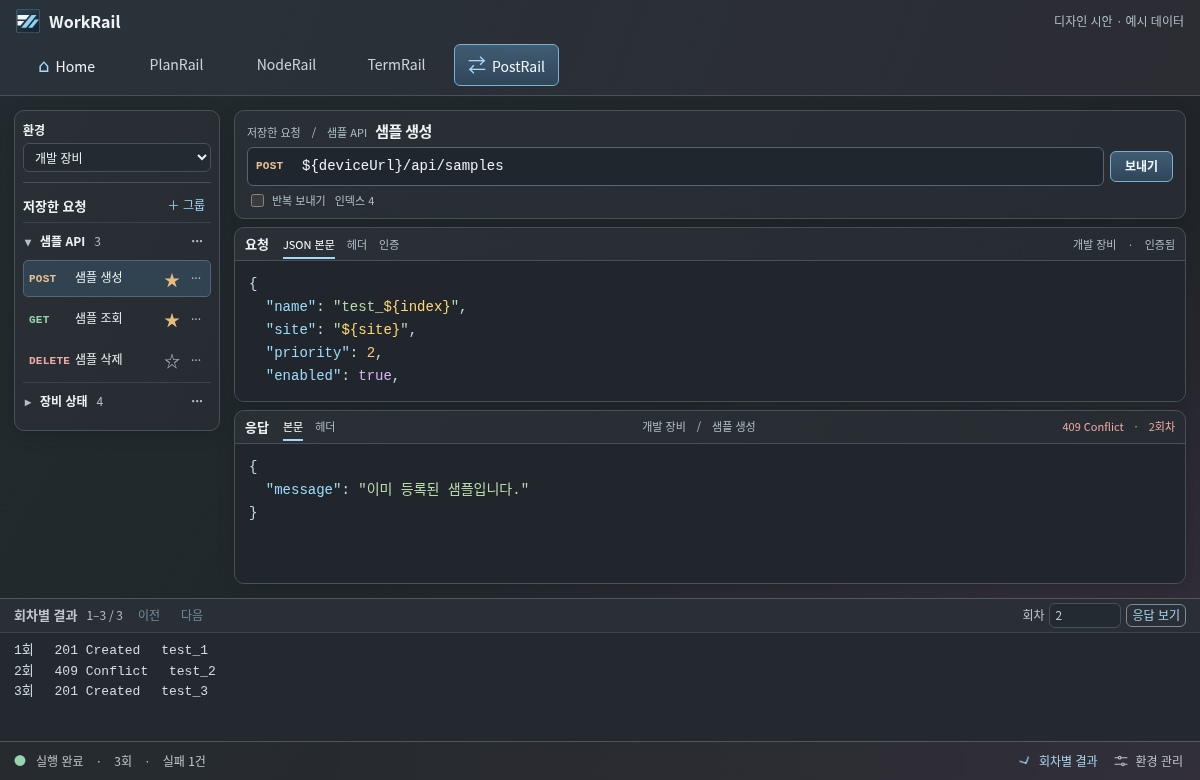
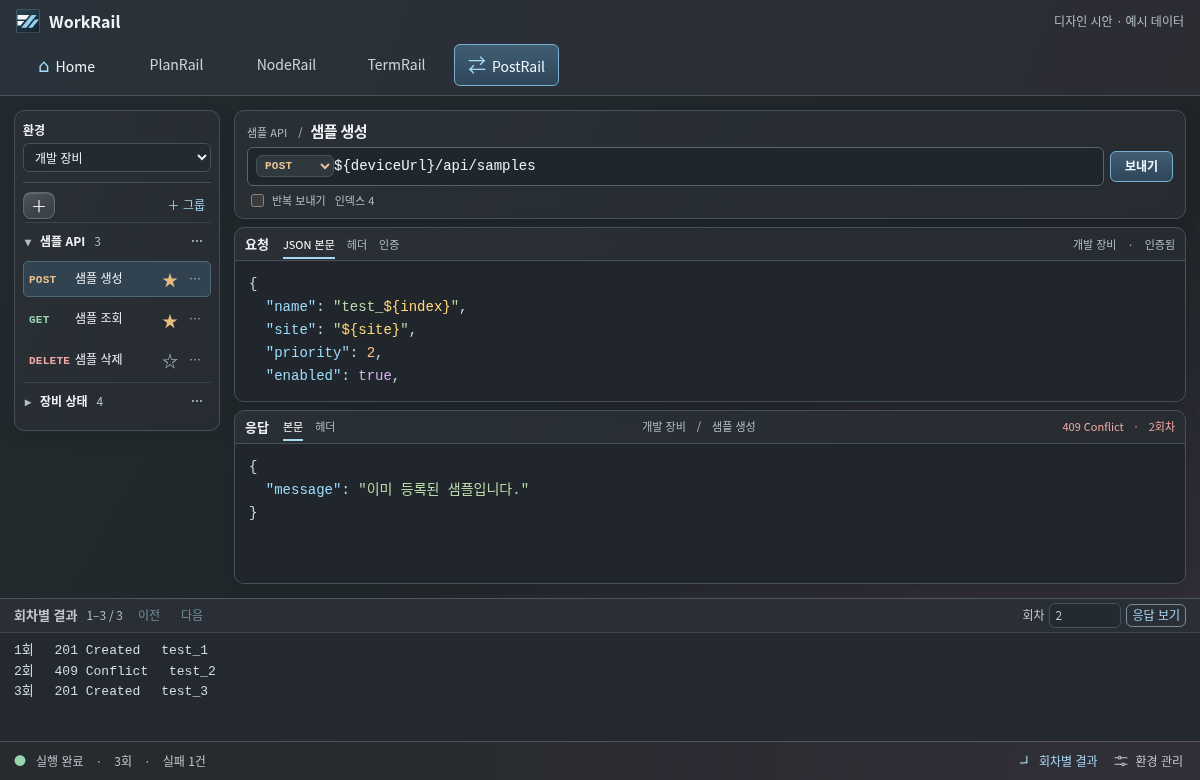
Design PostRail request creation, method switching and item menus

diff --git a/docs/design/mockups/postrail-workspace.html b/docs/design/mockups/postrail-workspace.html
@@ -82,13 +82,33 @@ body:has(#post:not([hidden])){height:100dvh}
 .code-pane .json-input textarea{position:absolute;inset:0;width:100%;height:100%;min-height:0;overflow:auto;color:transparent;caret-color:#f1f2f3;background:transparent}
 .json-input textarea::selection{background:#6489af80}
 @media(forced-colors:active){.json-input pre{display:none}.code-pane .json-input textarea{color:CanvasText;caret-color:CanvasText}}
+/* The same glass, field dimensions and action spacing as the WorkRail standard dialog. */
+#dialog{width:min(460px,calc(100vw - 28px));max-height:calc(100dvh - 32px);overflow:auto;padding:20px 22px;border:1px solid #b4bfc449;border-radius:14px;background:rgba(43,46,49,.5);backdrop-filter:blur(28px);box-shadow:0 14px 42px #0007}
+#dialog::backdrop{background:#14191f66}
+#dialog .title{background:none;padding:0 0 10px;border-bottom:1px solid #b4bfc430}
+#dialog h2{font-size:19px}
+#dialog .dialogbody{max-height:none;padding:14px 0}
+#dialog .formrow{font-size:13px;font-weight:600;margin:0 0 14px}
+#dialog .formrow:last-child{margin-bottom:0}
+#dialog input,#dialog select{height:36px;padding:6px 10px;border-radius:8px;background:#6e73784d;border:1px solid #b4bfc449;color:inherit}
+#dialog option,#method option{background:#292f35;color:#eef2f5}
+#dialog button,#newRequest{min-height:32px;padding:5px 11px;font-size:13px;border-radius:8px;color:inherit;border:1px solid #b4bfc449;background:linear-gradient(155deg,#ffffff18,transparent 65%),#6e73784d;box-shadow:0 1px 2px #0003,inset 0 1px 0 #ffffff20}
+#dialog .dialogfoot{gap:8px;padding:12px 0 0;border-top:1px solid #b4bfc430}
+#dialog .primary{background:linear-gradient(155deg,#5796cd55,#24507840 65%),#477fae4d;border-color:#8bc1eb}
+#dialog .danger{color:#ffc1ba}
+#dialog .leading{margin-right:auto}
+#newRequest{min-height:24px;padding:0 7px;font-size:16px}
+#method{flex:none;width:78px;padding:3px 4px;background:#30383f;border-color:var(--line)}
+#contextMenu{position:fixed;z-index:20;min-width:125px;padding:3px;max-height:50vh;overflow:auto;border:1px solid var(--line);border-radius:5px;background:#2b2e31;box-shadow:0 8px 24px #0005}
+#contextMenu button{display:block;width:100%;padding:4px 7px;font-size:12px;text-align:left;background:none;border:0}
+#contextMenu button:hover,#contextMenu button:focus{background:#b4c8dc26}
 </style>
[1 lines of base64/hex data omitted]
 <main id="post">
 <aside><label for="env"><strong>환경</strong></label><select class="env" id="env"><option>개발 장비</option><option>QA 장비</option></select>
-<div class="row apart asidehead"><h2>저장한 요청</h2><button id="newGroup" class="ghost">＋ 그룹</button></div><div id="tree"></div></aside>
+<div class="row apart asidehead"><button id="newRequest" aria-label="요청 추가" title="요청 추가">＋</button><button id="newGroup" class="ghost">＋ 그룹</button></div><div id="tree"></div></aside>
 <section class="workspace">
-<div class="panel compose"><div class="request-heading"><span class="pathline" id="crumb"></span><h1 id="reqName"></h1></div><div class="endpoint"><div class="url"><b id="method" class="verb"></b><input id="url" aria-label="요청 URL"></div><button class="primary send" id="send">보내기</button></div>
+<div class="panel compose"><div class="request-heading"><span class="pathline" id="crumb"></span><h1 id="reqName"></h1></div><div class="endpoint"><div class="url"><select id="method" class="verb" aria-label="HTTP 메서드"><option>GET</option><option>POST</option><option>DELETE</option></select><input id="url" aria-label="요청 URL"></div><button class="primary send" id="send">보내기</button></div>
 <div class="tools"><label id="repeatControl"><input type="checkbox" id="repeat">반복 보내기</label><label id="countControl" hidden>횟수 <input type="text" inputmode="numeric" id="count" value="10"></label><span id="range"></span><button id="saveEdits" class="ghost auto" hidden>변경 저장</button></div></div>
 <div class="panel code-pane"><div class="pane-bar"><h2>요청</h2><div id="reqTabs" class="tabs"><button data-tab="0" class="active">JSON 본문</button><button data-tab="1">헤더</button><button data-tab="2">인증</button></div><small id="auth" class="auto"></small></div><div class="editor" id="reqContent"></div></div>
 <div class="panel code-pane"><div class="pane-bar"><h2>응답</h2><div class="tabs"><button id="bodyTab" class="active">본문</button><button id="hdrTab">헤더</button></div><small class="auto" id="responseOwner"></small><span id="status" class="good"></span></div><div class="editor"><pre id="response"></pre></div></div>
@@ -103,7 +123,7 @@ body:has(#post:not([hidden])){height:100dvh}
 <section class="widget panel pad"><h2 class="cardhead">PlanRail 상태</h2><div class="listrow">공유 상태<span class="good">공유 제공 중</span></div><div class="listrow">연결 참여자<b>2명</b></div></section>
 <section class="widget panel pad"><h2 class="cardhead">Node 작업</h2><div class="listrow">24.22.3<span class="pill">사용 중</span></div><div class="listrow">22.16.0<small>설치됨</small></div></section>
 <section class="widget panel pad"><div class="row apart cardhead"><h2>PostRail 즐겨찾기</h2><span class="mark" aria-hidden="true">⇄</span></div><div class="listrow"><span id="homeEnv"></span><small id="homeAuth"></small></div><div id="favorites"></div><p class="home-result" role="status"><span id="homeLast"></span> <span id="homeCode"></span></p><div class="workrail-widget-meta"><span id="favCount"></span><button type="button" class="workrail-link" id="openPost">PostRail 열기</button></div></section></div></main>
-<dialog id="dialog"><div class="title"><h2 id="dialogTitle"></h2><button class="more auto" id="closeDialog" aria-label="닫기">×</button></div><div id="dialogBody" class="dialogbody"></div><div id="actions" class="dialogfoot"></div></dialog>
+<div id="contextMenu" role="menu" aria-label="작업 메뉴" hidden></div><dialog id="dialog" aria-labelledby="dialogTitle"><div class="title"><h2 id="dialogTitle"></h2><button class="more auto" id="closeDialog" aria-label="닫기">×</button></div><div id="dialogBody" class="dialogbody"></div><div id="actions" class="dialogfoot"></div></dialog>
 <script>
 const $ = id => document.getElementById(id);
 const group = (name,open=true) => ({name,open});
@@ -118,8 +138,8 @@ let current = requests[0], requestTab=0, responseHeaders=false;
 const drafts=new WeakMap();
 function values(r){return drafts.get(r)??r}
 function edit(key,value){
-  const draft={url:values(current).url,body:values(current).body,[key]:value};
-  if(draft.url===current.url&&draft.body===current.body)drafts.delete(current);else drafts.set(current,draft);
+  const draft={url:values(current).url,body:values(current).body,method:values(current).method,[key]:value};
+  if(draft.url===current.url&&draft.body===current.body&&draft.method===current.method)drafts.delete(current);else drafts.set(current,draft);
   range();
 }
 const environments = new Map(['개발 장비','QA 장비'].map((name,i)=>[name,{
@@ -164,45 +184,91 @@ function field(label,value) {
   const l=node('label',label,'formrow'),input=node('input');
   input.value=value;l.append(input);$('dialogBody').append(l);return input;
 }
-function nonempty(input) {
-  input.setCustomValidity(input.value.trim()?'':'이름을 입력해 주세요.');
+function nonempty(input,message='이름을 입력해 주세요.') {
+  input.setCustomValidity(input.value.trim()?'':message);
   return input.reportValidity();
+}
+function removeGroup(g) {
+  modal('그룹 삭제',()=>{
+    requests.filter(r=>r.folder===g).forEach(r=>r.folder=loose);
+    loose.open=true;groups=groups.filter(item=>item!==g);$('dialog').close();draw();
+  },'삭제');
+  $('dialogBody').textContent='“'+g.name+'” 그룹을 삭제할까요? 소속 요청은 미분류로 이동합니다.';
+  $('actions').lastElementChild.className='danger';
+}
+function removeRequest(r) {
+  modal('요청 삭제',()=>{
+    requests=requests.filter(item=>item!==r);$('dialog').close();
+    if(current===r)choose(requests[0]);else draw();
+  },'삭제');
+  $('dialogBody').textContent='“'+r.name+'” 요청을 삭제할까요?';
+  $('actions').lastElementChild.className='danger';
 }
 function groupEditor(g) {
   let input;
   modal(g?'그룹 수정':'그룹 추가',()=>{
     if(!nonempty(input))return;
     if(g)g.name=input.value.trim();else groups.splice(groups.length-1,0,group(input.value.trim()));
-    $('dialog').close();tree();
-  });
-  input=field('그룹 이름',g?.name??'');
-  if(g)$('dialogBody').append(button('그룹 삭제',()=>{
-    modal('그룹 삭제',()=>{
-      requests.filter(r=>r.folder===g).forEach(r=>r.folder=loose);loose.open=true;
-      groups=groups.filter(item=>item!==g);$('dialog').close();draw();
-    },'그룹 삭제');
-    $('dialogBody').textContent='그룹의 요청은 미분류로 이동합니다.';
-  },'danger'));
-  input.focus();
-}
-function requestEditor(r) {
-  let name,url,select;
-  modal('저장한 요청 수정',()=>{
-    if(!nonempty(name)||!nonempty(url))return;
-    r.name=name.value.trim();r.url=url.value.trim();if(drafts.has(r))drafts.get(r).url=r.url;r.folder=groups[Number(select.value)];r.folder.open=true;
     $('dialog').close();draw();
   });
-  name=field('요청 이름',r.name);url=field('URL',r.url);
-  const label=node('label','그룹','formrow');select=node('select');select.setAttribute('aria-label','그룹');
-  groups.forEach((g,i)=>{const o=node('option',g.name);o.value=i;o.selected=g===r.folder;select.append(o)});
-  label.append(select);$('dialogBody').append(label,button('요청 삭제',()=>{
-    modal('요청 삭제',()=>{
-      requests=requests.filter(item=>item!==r);
-      if(current===r)choose(requests[0]);else draw();
-      $('dialog').close();
-    },'요청 삭제');$('dialogBody').textContent='“'+r.name+'” 요청을 삭제할까요?';
-  },'danger'));
+  input=field('그룹 이름',g?.name??'');
+  if(g)$('actions').prepend(button('그룹 삭제',()=>removeGroup(g),'danger leading'));
+  input.focus();
 }
+function requestEditor(r,folder=r?.folder??loose) {
+  let name,url,select;
+  modal(r?'요청 수정':'요청 추가',()=>{
+    if(!nonempty(name)||!nonempty(url,'요청 URL을 입력해 주세요.'))return;
+    const dest=groups[Number(select.value)];
+    const item=r??{index:1n,method:'GET',body:'',favorite:false};
+    if(r&&drafts.has(r)&&url.value.trim()!==r.url)drafts.get(r).url=url.value.trim();
+    Object.assign(item,{name:name.value.trim(),url:url.value.trim(),folder:dest});
+    dest.open=true;
+    if(!r)requests.push(item);
+    $('dialog').close();
+    if(r)draw();else choose(item);
+  });
+  name=field('요청 이름',r?.name??'');url=field('URL',r?.url??'');url.placeholder='${deviceUrl}/api/samples';
+  const label=node('label','그룹','formrow');select=node('select');select.setAttribute('aria-label','그룹');
+  groups.forEach((g,i)=>{const o=node('option',g.name);o.value=i;o.selected=g===folder;select.append(o)});
+  label.append(select);$('dialogBody').append(label);
+  if(r)$('actions').prepend(button('요청 삭제',()=>removeRequest(r),'danger leading'));
+  name.focus();
+}
+const menu=$('contextMenu');
+let menuAnchor;
+function dismissMenu(restore=false){
+  if(menu.hidden)return;
+  menu.hidden=true;menuAnchor.setAttribute('aria-expanded','false');
+  if(restore)menuAnchor.focus();
+}
+function menuButton(label,entries,classes='more'){
+  const trigger=button('…',event=>{
+    event.preventDefault();
+    if(!menu.hidden&&menuAnchor===trigger){dismissMenu(true);return}
+    dismissMenu();menuAnchor=trigger;
+    menu.replaceChildren(...entries.map(([title,action])=>{
+      const opt=button(title,()=>{dismissMenu(true);action()});opt.setAttribute('role','menuitem');return opt;
+    }));
+    menu.hidden=false;trigger.setAttribute('aria-expanded','true');
+    const rect=trigger.getBoundingClientRect();
+    menu.style.left=Math.max(0,Math.min(rect.left,innerWidth-menu.offsetWidth))+'px';
+    menu.style.top=(rect.bottom+menu.offsetHeight<=innerHeight?rect.bottom:Math.max(0,rect.top-menu.offsetHeight))+'px';
+    menu.firstElementChild.focus();
+  },classes);
+  trigger.setAttribute('aria-label',label);trigger.setAttribute('aria-haspopup','menu');trigger.setAttribute('aria-expanded','false');
+  return trigger;
+}
+document.addEventListener('pointerdown',event=>{
+  if(!menu.hidden&&!menu.contains(event.target)&&!menuAnchor.contains(event.target))dismissMenu();
+});
+menu.onfocusout=e=>{if(e.relatedTarget&&!menu.contains(e.relatedTarget))dismissMenu()};
+menu.onkeydown=e=>{
+  const items=[...menu.children],i=items.indexOf(document.activeElement);
+  if(e.key==='Escape'){e.preventDefault();dismissMenu(true);return}
+  const jumps={ArrowDown:(i+1)%items.length,ArrowUp:(i+items.length-1)%items.length,Home:0,End:items.length-1};
+  if(Object.hasOwn(jumps,e.key)){e.preventDefault();items[jumps[e.key]].focus()}
+};
 function tree() {
   $('tree').replaceChildren();
   groups.forEach(g=>{
@@ -210,12 +276,14 @@ function tree() {
     const details=node('details',undefined,'folder');details.open=g.open;
     details.ontoggle=()=>g.open=details.open;
     const summary=node('summary',g.name);summary.append(node('small',String(requests.filter(r=>r.folder===g).length)));
-    if(g!==loose){const more=button('···',e=>{e.preventDefault();groupEditor(g)},'more auto');more.setAttribute('aria-label',g.name+' 그룹 수정');summary.append(more)}
+    const entries=[['요청 추가',()=>requestEditor(null,g)]];
+    if(g!==loose)entries.push(['수정',()=>groupEditor(g)],['삭제',()=>removeGroup(g)]);
+    summary.append(menuButton(g.name+' 그룹 메뉴',entries,'more auto'));
     details.append(summary);
     requests.filter(r=>r.folder===g).forEach(r=>{
       const item=node('div',undefined,'item'+(current===r?' sel':''));
       const chooseBtn=button('',()=>choose(r));chooseBtn.append(node('span',r.method,'verb '+r.method.toLowerCase()),document.createTextNode(r.name));
-      const edit=button('···',()=>requestEditor(r),'more');edit.setAttribute('aria-label',r.name+' 요청 수정');
+      const edit=menuButton(r.name+' 요청 메뉴',[['수정',()=>requestEditor(r)],['삭제',()=>removeRequest(r)]]);
       const star=button(r.favorite?'★':'☆',()=>{
         r.favorite=!r.favorite;
         star.textContent=r.favorite?'★':'☆';
@@ -226,10 +294,10 @@ function tree() {
     });
     $('tree').append(details);
   });
-  $('crumb').textContent=current?'저장한 요청　/　'+current.folder.name:'저장한 요청';
+  $('crumb').textContent=current?current.folder.name+'　/':'';
 }
 function choose(r) {
-  current=r;requestTab=r?.method==='GET'?1:0;$('repeat').checked=false;draw();
+  current=r;requestTab=values(r)?.method==='GET'?1:0;$('repeat').checked=false;draw();
 }
 function manage() {
   let rows;
@@ -251,16 +319,16 @@ function manage() {
   env().vars.forEach(([k,v])=>add(k,v));$('dialogBody').append(head,rows,message,node('p','인증 · 토큰 수신 API　'+env().api,'note'));
 }
 function count() {
-  if(current?.method!=='POST'||!$('repeat').checked)return 1n;
+  if(values(current)?.method!=='POST'||!$('repeat').checked)return 1n;
   const raw=$('count').value.trim();return /^\d+$/.test(raw)?BigInt(raw):0n;
 }
 function indexUsed(r,body){return r?.method==='POST'&&body.includes('${index}')}
 function range(){
-  $('countControl').hidden=!current||current.method!=='POST'||!$('repeat').checked;
+  $('countControl').hidden=!current||values(current).method!=='POST'||!$('repeat').checked;
   $('saveEdits').hidden=!current||!drafts.has(current);
   const n=count();$('send').disabled=!current||n<1n;
   $('send').textContent=!$('countControl').hidden&&n>0n?n+'회 보내기':'보내기';
-  $('range').textContent=!current?'':!n?'횟수는 양의 정수로 입력하세요.':indexUsed(current,values(current).body)?'인덱스 '+current.index+(n>1n?' – '+(current.index+n-1n):''):n>1n?'같은 요청을 반복합니다.':'';
+  $('range').textContent=!current?'':!n?'횟수는 양의 정수로 입력하세요.':indexUsed(values(current),values(current).body)?'인덱스 '+current.index+(n>1n?' – '+(current.index+n-1n):''):n>1n?'같은 요청을 반복합니다.':'';
 }
 // Keep the original text nodes so copy, escapes and indentation survive highlighting.
 function paintJson(host, source, templateValues=false) {
@@ -303,7 +371,7 @@ function requestBodyEditor(){
 }
 function requestPane() {
   const panel=$('reqContent');panel.replaceChildren();
-  [...$('reqTabs').children].forEach((b,i)=>{b.classList.toggle('active',i===requestTab);b.disabled=!current||(i===0&&current.method==='GET')});
+  [...$('reqTabs').children].forEach((b,i)=>{b.classList.toggle('active',i===requestTab);b.disabled=!current||(i===0&&values(current).method==='GET')});
   if(!current)return;
   if(requestTab===0)panel.append(requestBodyEditor());
   if(requestTab===1)panel.append(node('pre','Accept: application/json'));
@@ -366,10 +434,10 @@ function results() {
   favorites();$('homeLast').textContent='최근 실행 · '+run.name;$('homeCode').textContent=run.env+' · '+(run.example?'2 성공 / 1 실패':run.count+'회 · '+code(run.count));
 }
 function draw(){
-  tree();$('reqName').textContent=current?.name??'저장한 요청 없음';$('method').textContent=current?.method??'';
-  $('method').className='verb '+(current?.method??'').toLowerCase();$('url').value=current?values(current).url:'';$('url').disabled=!current;
+  tree();$('reqName').textContent=current?.name??'저장한 요청 없음';$('method').value=values(current)?.method??'';$('method').disabled=!current;
+  $('method').className='verb '+(values(current)?.method??'').toLowerCase();$('url').value=current?values(current).url:'';$('url').disabled=!current;
   $('auth').textContent=$('env').value+'　·　'+(env().logged?'인증됨':'로그인 필요');
-  $('repeatControl').hidden=current?.method!=='POST';range();requestPane();results();
+  $('repeatControl').hidden=values(current)?.method!=='POST';range();requestPane();results();
 }
 function sendRequest(r,n,input=r){
   if(!r||n<1n)return;
@@ -377,7 +445,7 @@ function sendRequest(r,n,input=r){
   let ok=false;try{ok=new URL(expanded).origin===env().api&&!expanded.includes('${')}catch{}
   if(!ok){modal('요청 주소 확인');$('dialogBody').textContent='환경 변수와 토큰을 받을 API 주소를 확인하세요. 본 요청을 보내지 않았습니다.';return}
   // A change of environment never transfers the previous environment's login state.
-  env().logged=true;run={name:r.name,env:$('env').value,method:r.method,count:n,plain:r.method==='GET'&&new URL(expanded).pathname==='/health',start:r.index,indexed:indexUsed(r,input.body),example:false};
+  env().logged=true;run={name:r.name,env:$('env').value,method:input.method,count:n,plain:input.method==='GET'&&new URL(expanded).pathname==='/health',start:r.index,indexed:indexUsed(input,input.body),example:false};
   if(run.indexed)r.index+=run.count;
   selected=run.count;$('iteration').value=selected;$('iteration').setCustomValidity('');page=(selected-1n)/logPageSize;responseHeaders=false;draw();
 }
@@ -385,6 +453,11 @@ function drawer(show){$('drawer').hidden=!show;$('toggleLog').setAttribute('aria
 function showHome(home){
   $('home').hidden=!home;$('post').hidden=home;$('footer').hidden=home;$('postTab').classList.toggle('active',!home);$('homeTab').classList.toggle('active',home);window.scrollTo(0,0);
 }
+$('newRequest').onclick=()=>requestEditor(null,current?.folder??loose);
+$('method').onchange=e=>{
+  edit('method',e.target.value);$('repeat').checked=false;
+  requestTab=e.target.value==='GET'?1:0;draw();
+};
 $('env').onchange=draw;$('newGroup').onclick=()=>groupEditor();$('manage').onclick=manage;$('closeDialog').onclick=()=>$('dialog').close();
 $('saveEdits').onclick=()=>{Object.assign(current,drafts.get(current));drafts.delete(current);draw()};
 $('url').oninput=e=>{if(current)edit('url',e.target.value)};$('repeat').onchange=range;$('count').oninput=range;$('send').onclick=()=>sendRequest(current,count(),values(current));

diff --git a/docs/design/postrail-workspace.md b/docs/design/postrail-workspace.md
@@ -4,10 +4,22 @@
 
 ## PostRail에서 요청을 보내는 흐름
 
-1. 왼쪽에서 환경과 저장한 요청을 고른다. 그룹 이름을 누르면 접거나 펼친다. 그룹 옆 메뉴에서는 이름 수정·삭제, 요청 옆 메뉴에서는 이름·URL 수정, 그룹 이동·삭제가 가능하다. 한 단계 그룹과 미분류를 제안한다. 그룹을 지우면 소속 요청은 미분류로 이동하고, 개별 요청 삭제는 이름을 표시해 확인한다. 그룹 이동·이름 수정으로 요청 고유 번호나 다음 인덱스가 달라지지 않는다.
-2. POST도 기본 버튼은 **보내기**다. 한 번 보내려면 횟수를 입력할 필요가 없다. POST에서 **반복 보내기**를 켰을 때만 양의 정수를 입력하고 ‘N회 보내기’를 사용한다. 반복을 끄면 한 건만 발송한다. 인덱스 있는 단건도 번호를 사용한다. GET과 DELETE에는 반복 옵션이 없다.
+1. 왼쪽 요청 목록 상단의 **＋**로 요청을 만든다. 이름·URL·그룹을 입력해 저장하면 오른쪽 편집기에 새 요청이 열린다. 선택 중인 요청이 있으면 같은 그룹, 선택이 없으면 미분류가 기본이다. 그룹의 **… → 요청 추가**를 이용하면 해당 그룹이 미리 선택된다. **＋ 그룹**은 별도로 제공한다.
+2. URL 왼쪽의 **HTTP 메서드 드롭다운**에서 GET·POST·DELETE를 선택한다. GET은 본문 탭을 끄고, DELETE는 본문을 선택적으로 사용할 수 있다. 작성 중인 본문은 메서드를 전환해도 보관한다. 새 요청의 기본값은 GET이다. 편집기에서는 선택한 메서드로 보내며, ‘변경 저장’을 누르면 저장 요청과 Home 즐겨찾기에도 반영된다. POST도 기본 버튼은 **보내기**다. 한 번 보내려면 횟수를 입력할 필요가 없다. POST에서 **반복 보내기**를 켰을 때만 양의 정수를 입력하고 ‘N회 보내기’를 사용한다. 반복을 끄면 한 건만 발송한다. 인덱스 있는 단건도 번호를 사용한다. GET과 DELETE에는 반복 옵션이 없다.
 3. URL 아래의 전체 가로 공간에서 요청 헤더·본문·인증을 편집한다. 응답은 바로 아래에서 본문·헤더를 전환한다. 응답 상단에는 실제 실행한 요청명·환경·선택된 회차를 표시해 편집기의 현재 환경과 구별한다.
 4. PlanRail처럼 페이지 하단에 상태 바를 둔다. 왼쪽에는 실행 상태와 건수, 오른쪽 끝에는 **환경 관리**, 그 왼쪽에는 **회차별 결과**가 있다. 접힌 상태에서 ‘회차별 결과’를 누르면 하단 상태 줄은 제자리에 있고, 그 바로 위로 footer 전체 너비의 로그가 펼쳐진다. 로그는 복사할 수 있는 읽기 전용 일반 텍스트다. 회차당 한 줄에 번호·상태·사용한 인덱스를 표시한다. 특정 응답은 로그 도구 줄에 회차 번호를 입력하고 ‘응답 보기’를 눌러 확인한다. 같은 버튼이나 Escape로 접어도 실행과 선택 응답을 유지한다. 실패나 서버 반영 여부가 불명확한 회차 수는 닫힌 상태에서도 알 수 있게 한다.
+
+### 목록 메뉴와 팝업
+
+| 진입점 | 동작 |
+| --- | --- |
+| 요청 옆 … | ‘수정’으로 이름·URL·그룹을 변경하거나 ‘삭제’로 대상 이름을 확인하고 삭제한다. |
+| 그룹 옆 … | ‘요청 추가’, ‘수정’, ‘삭제’를 제공한다. 그룹만 삭제하면 소속 요청은 별표와 다음 인덱스를 유지한 채 미분류로 이동한다. 미분류에는 ‘요청 추가’만 제공한다. |
+| 수정 팝업 하단 | 그룹은 **그룹 삭제**, 요청은 **요청 삭제**를 가장 왼쪽에 둔다. **닫기**와 **저장**은 오른쪽에 둔다. 어느 경로에서든 삭제 확인을 닫으면 자료를 유지한다. |
+
+요청·그룹 추가/수정, 삭제 확인, 환경 관리, 반복 보내기와 안내 팝업은 WorkRail 표준 대화상자의 제목·본문·하단 동작 영역을 공유한다. 서버 수정과 같은 너비(최대 460px), 14px 모서리, 유리 배경과 36px 입력 높이를 사용한다. 목록 메뉴는 버튼 바로 옆에 열리며 방향키로 이동하고 Escape 또는 바깥 클릭으로 닫는다. [공통 팝업의 기준](../../src/renderer/termrail/workspace-dialog.css) · [메뉴의 기준](../../src/renderer/termrail/WorkspaceControls.tsx)
+
+[그룹 메뉴 시안](mockups/postrail-group-menu.png) · [요청 수정 팝업 시안](mockups/postrail-request-edit.png)
 
 ### 편집 공간과 하단 상태 바
 

diff --git a/docs/wayfinder/STATUS.md b/docs/wayfinder/STATUS.md
@@ -1,5 +1,7 @@
 # 진행 상태
 
+2026-11-20 PostRail 시안에 요청 생성·수정, 그룹·요청 컨텍스트 메뉴, 메서드 선택과 표준 팝업의 하단 삭제 버튼을 반영했다. [설계와 시안](../design/postrail-workspace.md) · 제품 구현 전.
+
 2026-11-20 PostRail 요청·응답 JSON 본문의 타입별 구문 강조와 요청 변수 표시를 [작업 화면 시안](../design/postrail-workspace.md)에 반영했다. 제품 구현 전이다.
 
 2026-11-20 PostRail 후속 시안에 하단에서 펼치는 일반 텍스트 로그, Home 즐겨찾기 최대 5개와 공유 설정 관리 링크 스타일을 반영했다. [설계와 두 화면](../design/postrail-workspace.md) · 제품 구현 전.
